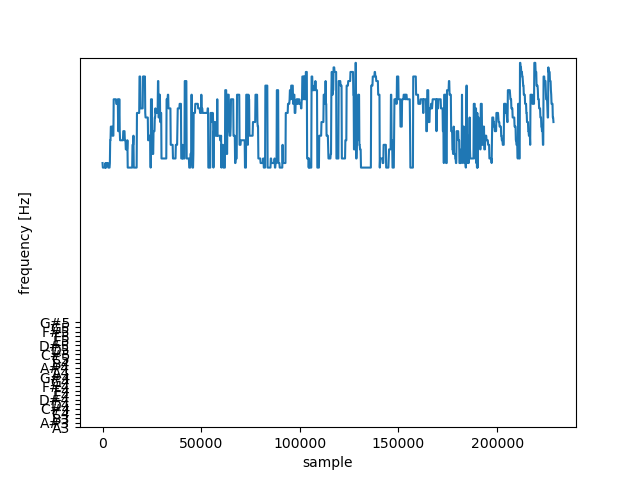
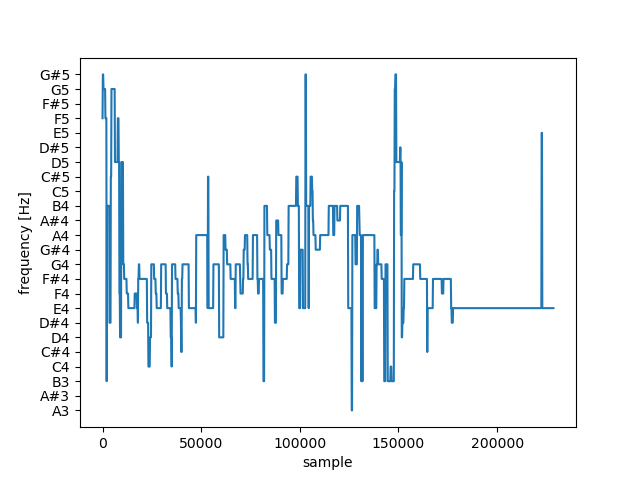
ロリ神

Changed region(s): [[0.1562, 0.125, 0.875, 0.8438], [0.0625, 0.125, 0.125, 0.9062]]

diff --git a/21_melody.py b/21_melody.py
@@ -3,7 +3,7 @@ import numpy as np
 import librosa
 import matplotlib.pyplot as plt
 
-NOTES = range(36, 60)
+NOTES = range(57, 81)
 
 
 def hz2nn(frequency):
@@ -40,6 +40,8 @@ def shs(spectrum, sample_rate, size_frame):
     for j in range(1, 16):
       freq = base_freq * j
       fft_idx = int(freq * size_frame / sample_rate)
+      if len(spectrum) <= fft_idx:
+        continue
       likelihood[i] += 0.8**j * np.exp(spectrum[fft_idx])
   return NOTES[np.argmax(likelihood)]
 
@@ -55,7 +57,7 @@ SR = 16000
 SIZE_FRAME = 2048
 SHIFT_SIZE = 16000 / 100  # 10 msec
 # https://www.youtube.com/watch?v=Ci_zad39Uhw
-x, _ = librosa.load('audio/shs-test-man.wav', sr=SR)
+x, _ = librosa.load('audio/rori.wav', sr=SR)
 
 spec = spectrogram(x, SIZE_FRAME, SHIFT_SIZE)
 melody = get_melody(spec)
@@ -66,7 +68,7 @@ plt.plot(x)
 plt.xlabel('sample')
 # plt.show()
 
-fig.savefig('plot/melody/sts-test.wave.png')
+fig.savefig('plot/melody/rori.wave.png')
 
 fig = plt.figure()
 
@@ -80,7 +82,7 @@ plt.imshow(
 )
 # plt.show()
 
-fig.savefig('plot/melody/sts-test.spectrogram.png')
+fig.savefig('plot/melody/rori.spectrogram.png')
 
 fig = plt.figure()
 plt.xlabel('sample')
@@ -88,13 +90,13 @@ plt.ylabel('frequency [Hz]')
 
 plt.plot(np.linspace(0, len(x), len(melody)), list(map(lambda x: x - NOTES[0], melody)))
 plt.yticks(np.arange(24),
-           #  list(["A3", "A#3", "B3", "C4", "C#4", "D4", "D#4", "E4",
-           #        "F4", "F#4", "G4", "G#4", "A4", "A#4", "B4", "C5",
-           #        "C#5", "D5", "D#5", "E5", "F5", "F#5", "G5", "G#5"])
-           list(["C3", "C#3", "D3", "D#3", "E3", "F3", "F#3", "G3",
-                 "G#3", "A3", "A#3", "B3", "C4", "C#4", "D4", "D#4",
-                 "E4", "F4", "F#4", "G4", "G#4", "A4", "A#4", "B4"])
+           list(["A3", "A#3", "B3", "C4", "C#4", "D4", "D#4", "E4",
+                 "F4", "F#4", "G4", "G#4", "A4", "A#4", "B4", "C5",
+                 "C#5", "D5", "D#5", "E5", "F5", "F#5", "G5", "G#5"])
+           #  list(["C3", "C#3", "D3", "D#3", "E3", "F3", "F#3", "G3",
+           #        "G#3", "A3", "A#3", "B3", "C4", "C#4", "D4", "D#4",
+           #        "E4", "F4", "F#4", "G4", "G#4", "A4", "A#4", "B4"])
            )
 
 plt.show()
-fig.savefig('plot/melody/sts-test.melody.png')
+fig.savefig('plot/melody/rori.melody.png')
